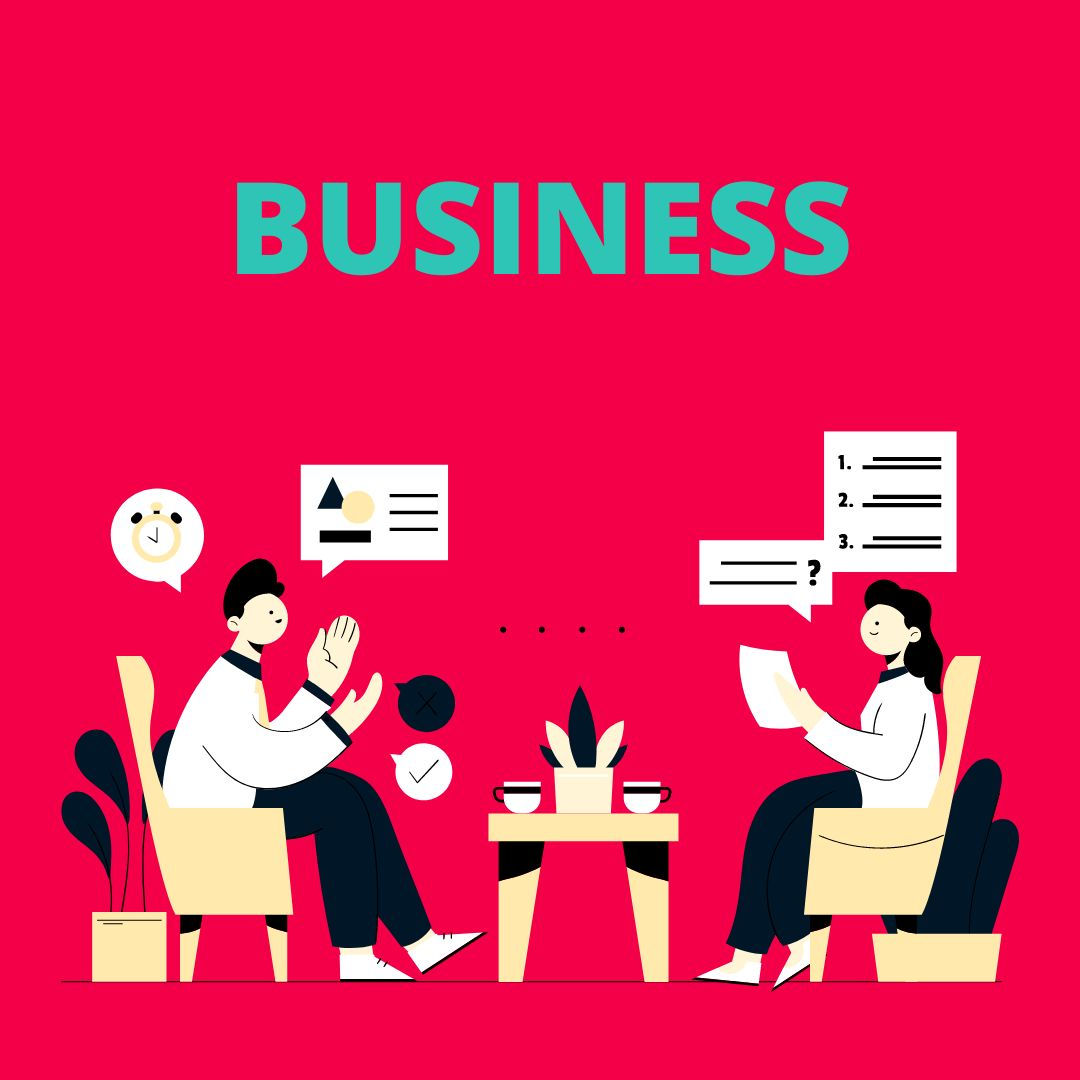
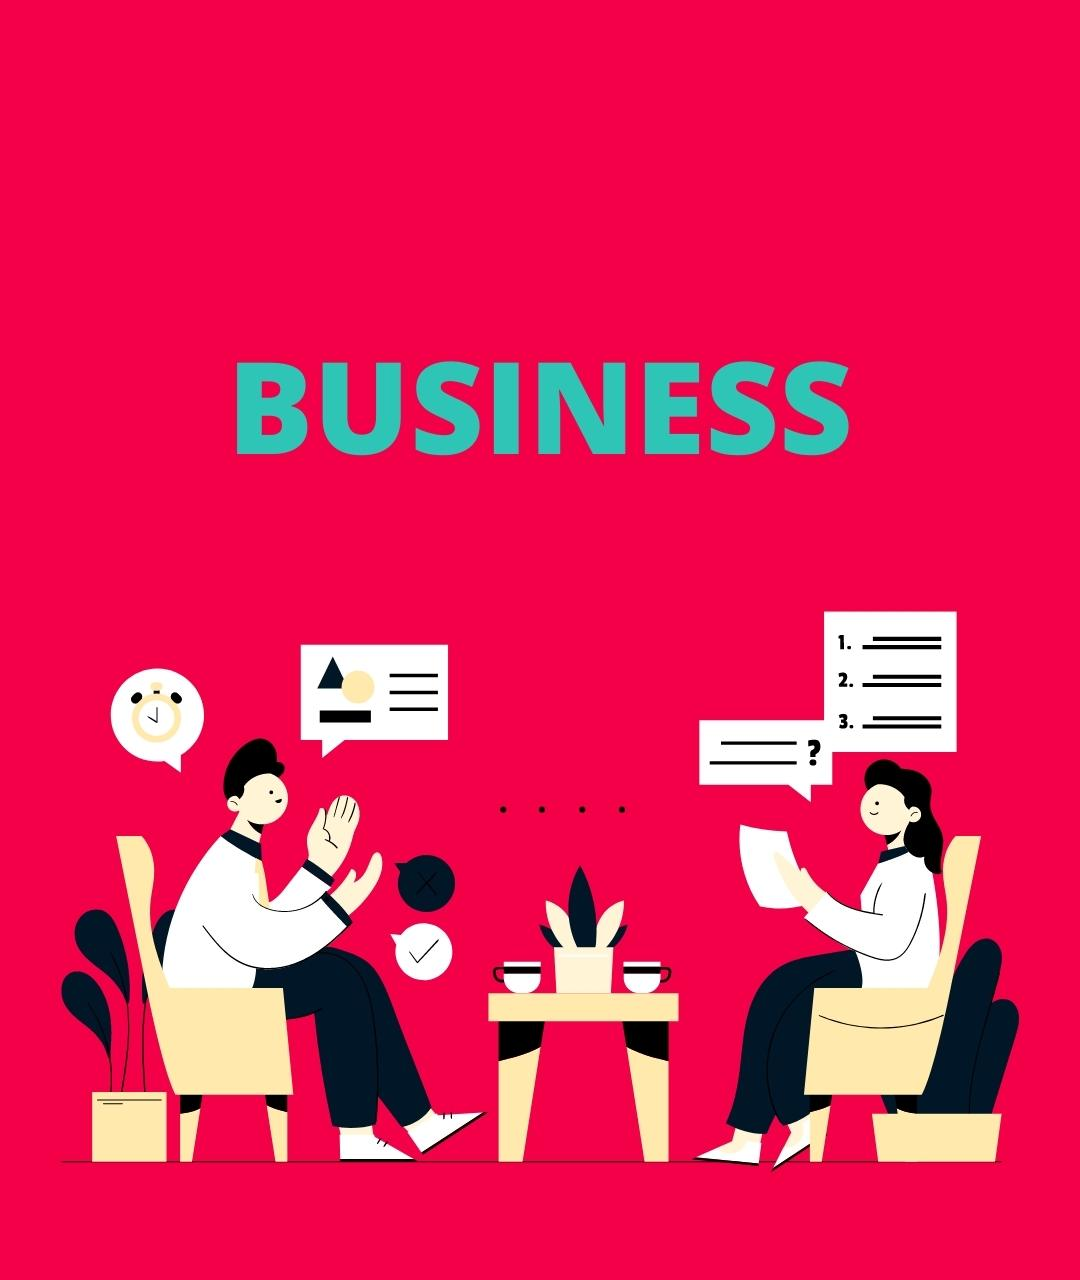
fixed nav and main pic conflict

Changed region(s): [[0.0306, 0.3972, 0.9472, 0.9167], [0.2139, 0.1528, 0.7944, 0.3667]]

diff --git a/sitecode/sectorstyle.css b/sitecode/sectorstyle.css
@@ -2,7 +2,7 @@
 
 .showcase{
     right: 0;
-   /* width: 100%; */
+  /*  width: auto; */
     height: 100vh;
     display: flex;
     justify-content: space-between;
